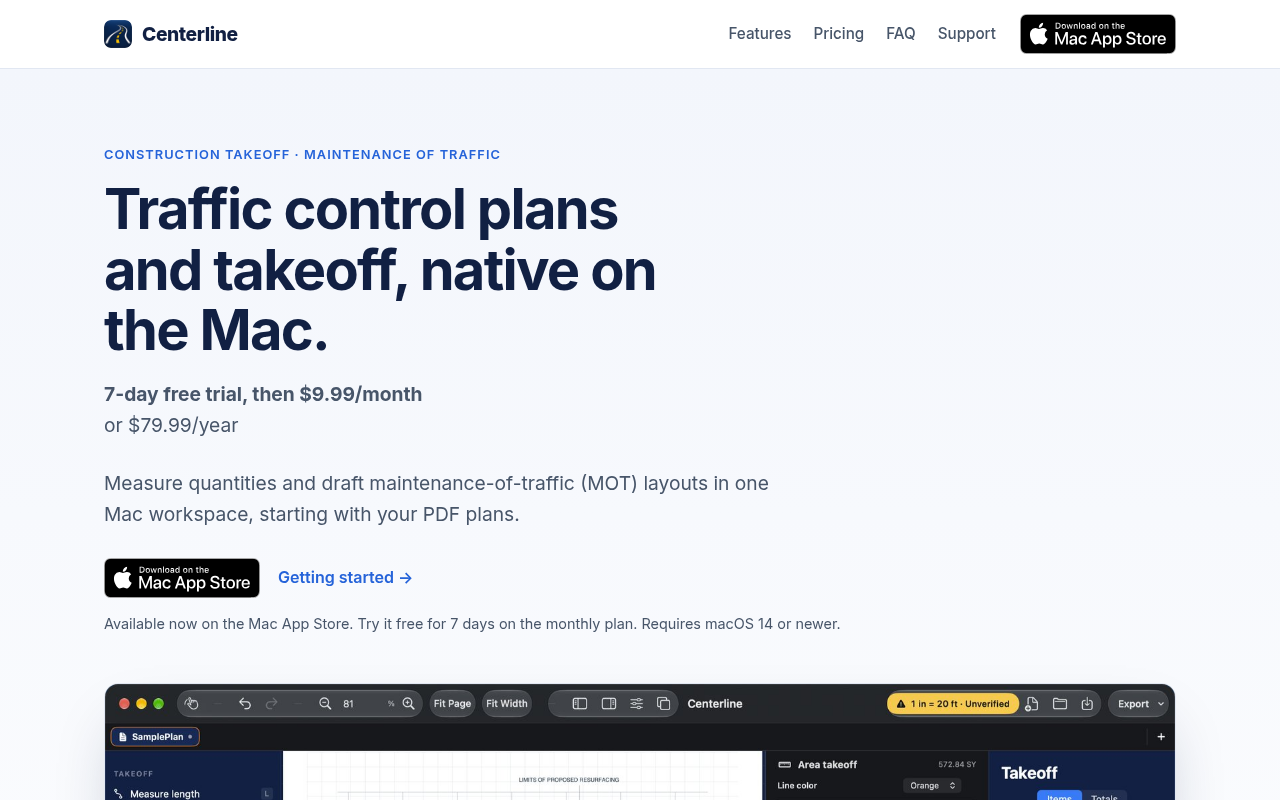
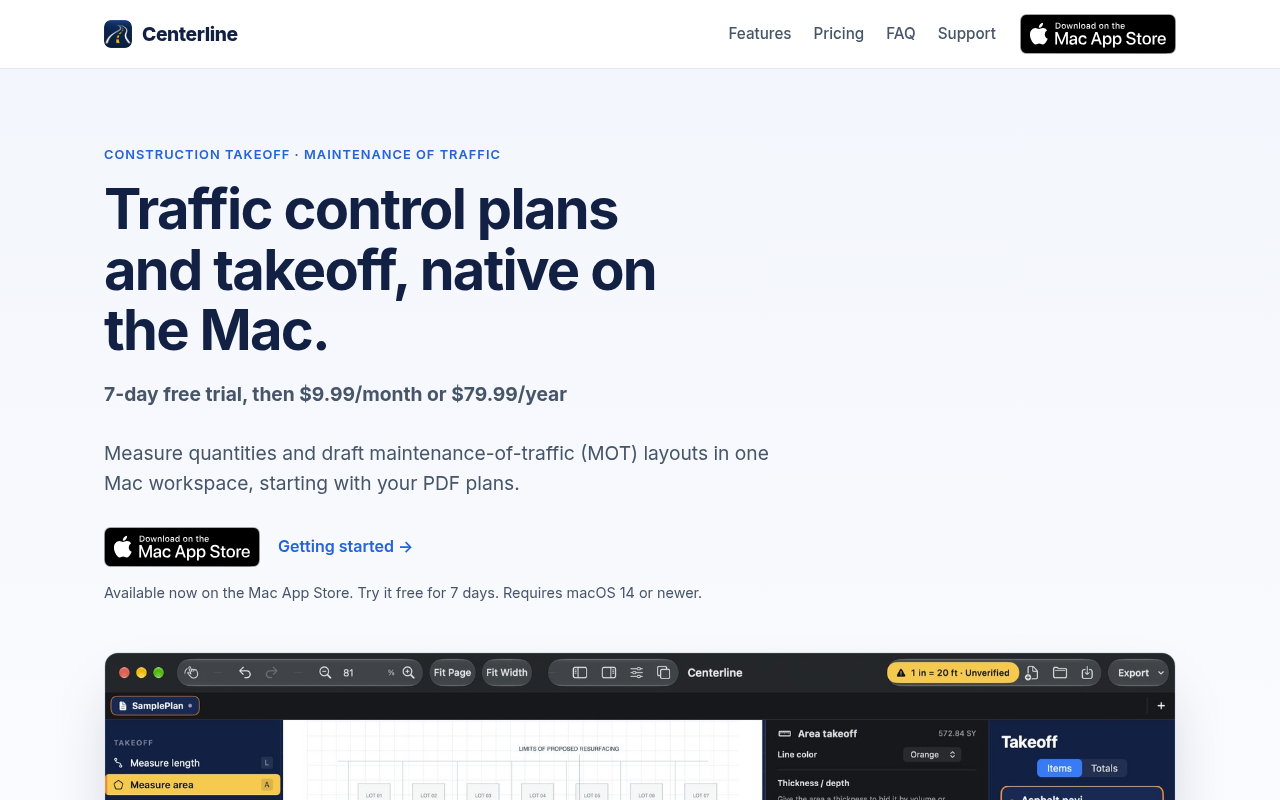
Trial applies to both monthly and yearly plans

diff --git a/index.html b/index.html
@@ -30,10 +30,10 @@
 <section class="hero"><div class="wrap">
 <p class="kicker">Construction takeoff · Maintenance of traffic</p>
 <h1>Traffic control plans and takeoff, native on the Mac.</h1>
-<p class="lede"><strong>7-day free trial, then $9.99/month</strong><br>or $79.99/year</p>
+<p class="lede"><strong>7-day free trial, then $9.99/month or $79.99/year</strong></p>
 <p class="lede">Measure quantities and draft maintenance-of-traffic (MOT) layouts in one Mac workspace, starting with your PDF plans.</p>
 <div class="cta"><a class="badge" href="https://apps.apple.com/us/app/centerline-takeoff-mot/id6824292501"><img src="/download-on-the-mac-app-store.svg" alt="Download on the Mac App Store" width="156" height="40"></a><a class="link" href="/support">Getting started →</a></div>
-<p class="note">Available now on the Mac App Store. Try it free for 7 days on the monthly plan. Requires macOS 14 or newer.</p>
+<p class="note">Available now on the Mac App Store. Try it free for 7 days. Requires macOS 14 or newer.</p>
 <div class="shot"><img src="/images/takeoff.jpg" width="1600" height="1000" alt="Centerline on a Mac with an asphalt paving area takeoff on a sample plan, the area takeoff settings panel, and a Takeoff panel listing quantities and grand totals"></div>
 </div></section>
 
@@ -59,10 +59,10 @@
 <p class="sub">One set of tools. Two billing options. Free download.</p>
 <div class="pricing">
 <div class="plan"><div class="price">$9.99<span> / month</span></div><p>7-day free trial, then $9.99/month. Both plans include the same takeoff and MOT tools.</p></div>
-<div class="plan"><div class="price">$79.99<span> / year</span></div><p>Billed upfront annually.</p></div>
+<div class="plan"><div class="price">$79.99<span> / year</span></div><p>7-day free trial, then $79.99/year. Billed upfront annually.</p></div>
 </div>
 <div class="cta" style="margin-top:28px"><a class="badge" href="https://apps.apple.com/us/app/centerline-takeoff-mot/id6824292501"><img src="/download-on-the-mac-app-store.svg" alt="Download on the Mac App Store" width="156" height="40"></a></div>
-<p class="fine">An active subscription is required to use the editor. U.S. App Store pricing; Apple displays the final price at purchase. The 7-day free trial applies to the monthly plan only and converts to the $9.99/month subscription unless canceled in your Apple Account at least 24 hours before the trial ends. Subscriptions renew automatically unless canceled through your Apple Account at least 24 hours before the end of the current period. Optional AI requires your own API account; cloud hosting is separate.</p>
+<p class="fine">An active subscription is required to use the editor. U.S. App Store pricing; Apple displays the final price at purchase. The 7-day free trial applies to both plans and converts to the selected subscription unless canceled in your Apple Account at least 24 hours before the trial ends. Subscriptions renew automatically unless canceled through your Apple Account at least 24 hours before the end of the current period. Optional AI requires your own API account; cloud hosting is separate.</p>
 </div></section>
 
 <section id="faq" class="alt"><div class="wrap faq">
